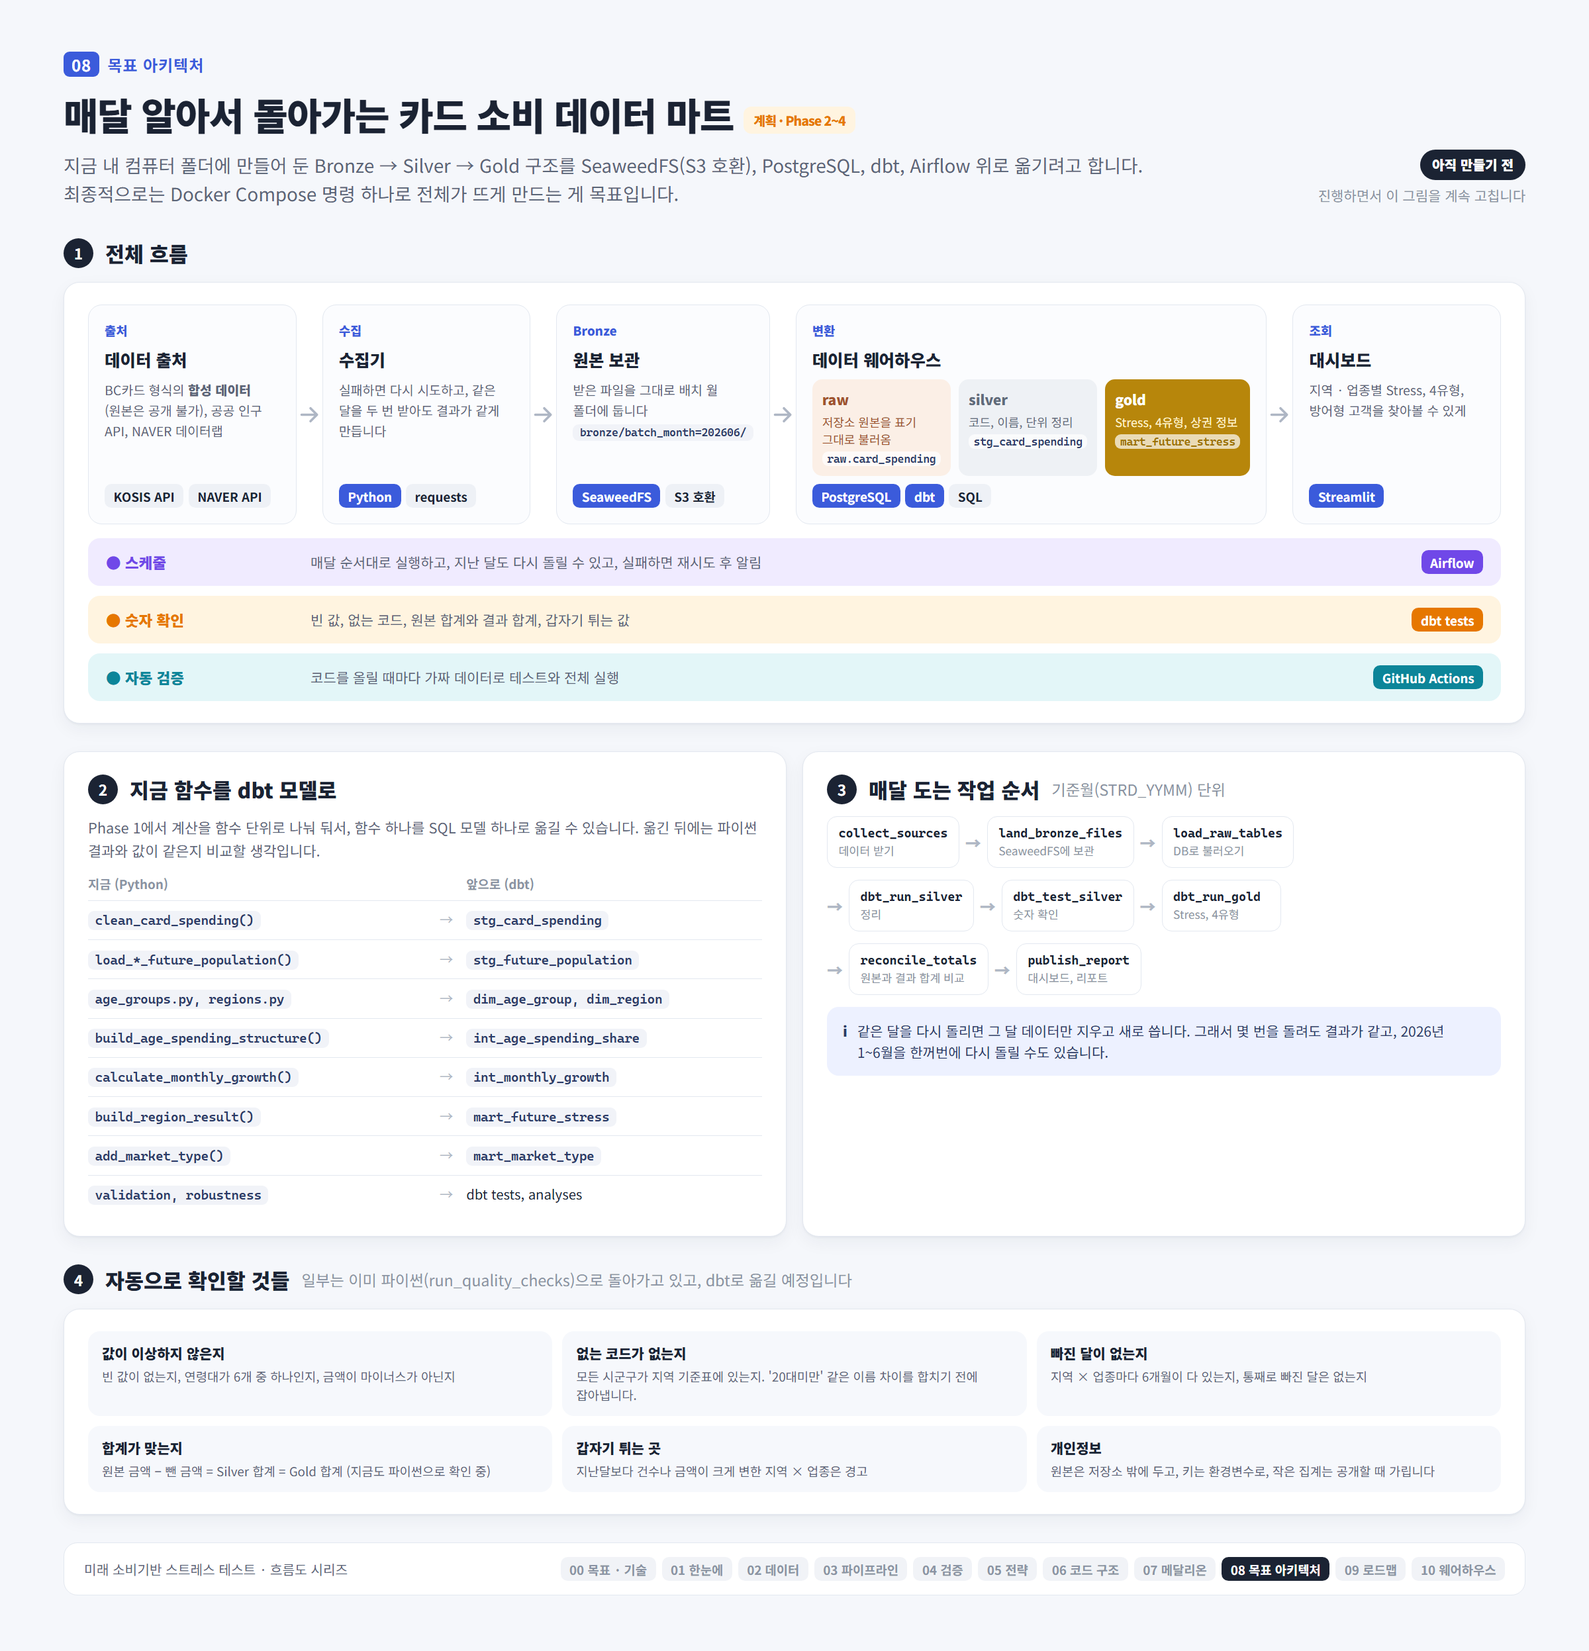
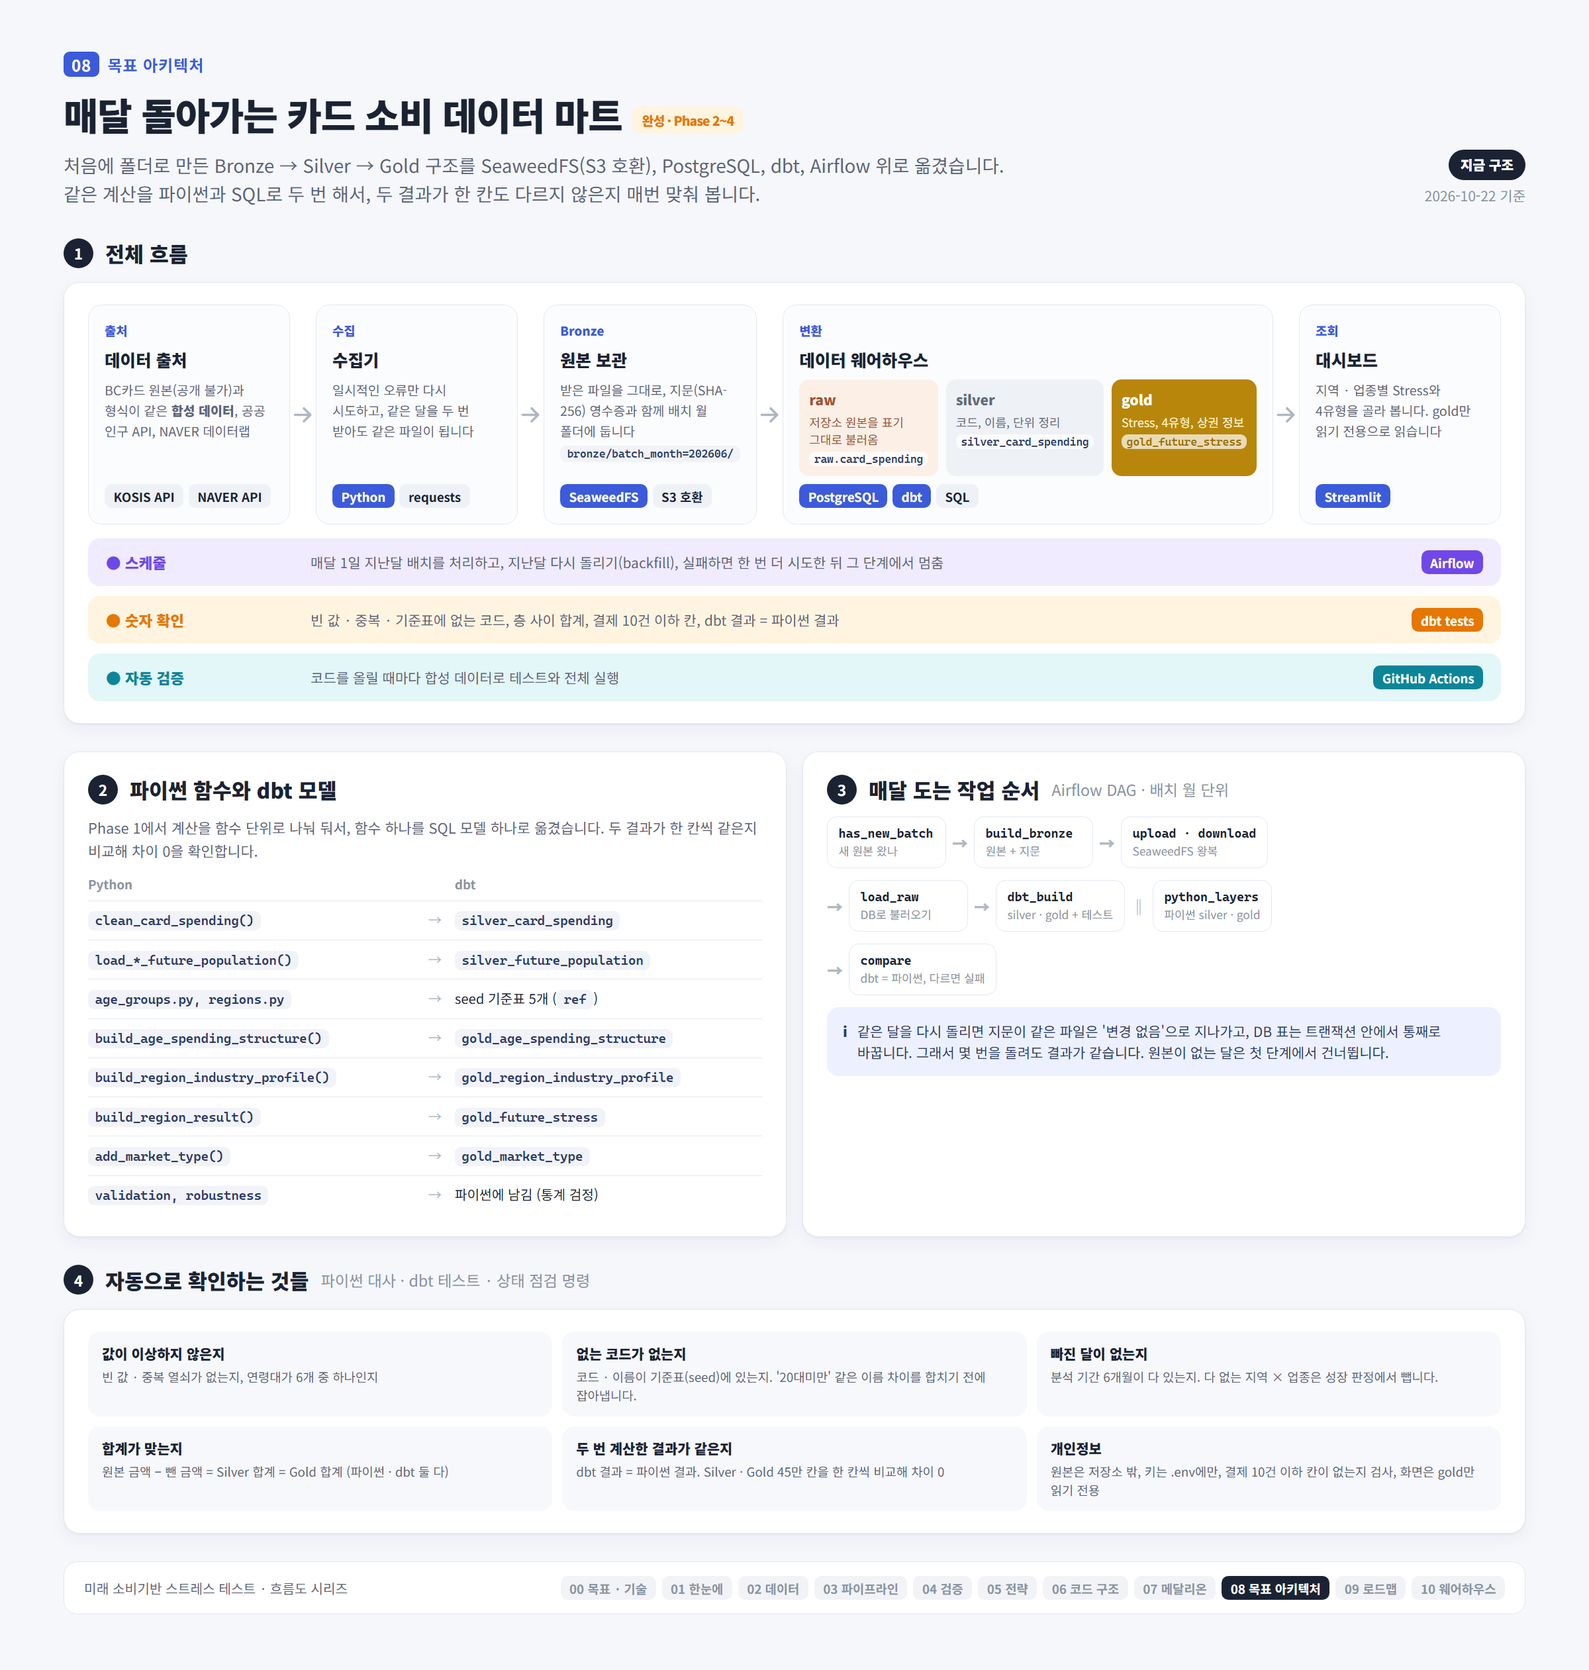
아키텍처 흐름도를 지금 구조로 고치고 README에 넣음

diff --git a/docs/diagrams/08_target_architecture.html b/docs/diagrams/08_target_architecture.html
@@ -43,10 +43,10 @@
 <div class="header">
   <div>
     <div class="eyebrow"><span class="no">08</span>목표 아키텍처</div>
-    <h1>매달 알아서 돌아가는 카드 소비 데이터 마트<span class="plan-badge">계획 · Phase 2~4</span></h1>
-    <p class="lede">지금 내 컴퓨터 폴더에 만들어 둔 Bronze → Silver → Gold 구조를 SeaweedFS(S3 호환), PostgreSQL, dbt, Airflow 위로 옮기려고 합니다.<br>최종적으로는 Docker Compose 명령 하나로 전체가 뜨게 만드는 게 목표입니다.</p>
+    <h1>매달 돌아가는 카드 소비 데이터 마트<span class="plan-badge">완성 · Phase 2~4</span></h1>
+    <p class="lede">처음에 폴더로 만든 Bronze → Silver → Gold 구조를 SeaweedFS(S3 호환), PostgreSQL, dbt, Airflow 위로 옮겼습니다.<br>같은 계산을 파이썬과 SQL로 두 번 해서, 두 결과가 한 칸도 다르지 않은지 매번 맞춰 봅니다.</p>
   </div>
-  <div class="version"><b>아직 만들기 전</b><br>진행하면서 이 그림을 계속 고칩니다</div>
+  <div class="version"><b>지금 구조</b><br>2026-10-22 기준</div>
 </div>
 
 <!-- 1 -->
@@ -55,33 +55,33 @@
   <div class="card pad">
     <div class="flow">
       <div class="node"><span class="n-step">출처</span><h4>데이터 출처</h4>
-        <p>BC카드 형식의 <b>합성 데이터</b>(원본은 공개 불가), 공공 인구 API, NAVER 데이터랩</p>
+        <p>BC카드 원본(공개 불가)과 형식이 같은 <b>합성 데이터</b>, 공공 인구 API, NAVER 데이터랩</p>
         <div class="techs"><span class="tech">KOSIS API</span><span class="tech">NAVER API</span></div></div>
       <div class="arrow-r"><svg viewBox="0 0 26 26"><path d="M5 13h15M14 6.5l6.5 6.5-6.5 6.5" fill="none" stroke="#AEB6C4" stroke-width="2.4" stroke-linecap="round" stroke-linejoin="round"/></svg></div>
       <div class="node"><span class="n-step">수집</span><h4>수집기</h4>
-        <p>실패하면 다시 시도하고, 같은 달을 두 번 받아도 결과가 같게 만듭니다</p>
+        <p>일시적인 오류만 다시 시도하고, 같은 달을 두 번 받아도 같은 파일이 됩니다</p>
         <div class="techs"><span class="tech main">Python</span><span class="tech">requests</span></div></div>
       <div class="arrow-r"><svg viewBox="0 0 26 26"><path d="M5 13h15M14 6.5l6.5 6.5-6.5 6.5" fill="none" stroke="#AEB6C4" stroke-width="2.4" stroke-linecap="round" stroke-linejoin="round"/></svg></div>
       <div class="node"><span class="n-step">Bronze</span><h4>원본 보관</h4>
-        <p>받은 파일을 그대로 배치 월 폴더에 둡니다<br><code style="font-size:11px">bronze/batch_month=202606/</code></p>
+        <p>받은 파일을 그대로, 지문(SHA-256) 영수증과 함께 배치 월 폴더에 둡니다<br><code style="font-size:11px">bronze/batch_month=202606/</code></p>
         <div class="techs"><span class="tech main">SeaweedFS</span><span class="tech">S3 호환</span></div></div>
       <div class="arrow-r"><svg viewBox="0 0 26 26"><path d="M5 13h15M14 6.5l6.5 6.5-6.5 6.5" fill="none" stroke="#AEB6C4" stroke-width="2.4" stroke-linecap="round" stroke-linejoin="round"/></svg></div>
       <div class="node"><span class="n-step">변환</span><h4>데이터 웨어하우스</h4>
         <div class="wh">
           <div style="background:#FBEFE6;color:#A0522D"><b>raw</b><span>저장소 원본을 표기 그대로 불러옴</span><code>raw.card_spending</code></div>
-          <div style="background:#EEF1F5;color:#5F6B7A"><b>silver</b><span>코드, 이름, 단위 정리</span><code>stg_card_spending</code></div>
-          <div style="background:#B7860B;color:#fff"><b>gold</b><span style="color:#FFF3CF">Stress, 4유형, 상권 정보</span><code style="color:#9A6F00">mart_future_stress</code></div>
+          <div style="background:#EEF1F5;color:#5F6B7A"><b>silver</b><span>코드, 이름, 단위 정리</span><code>silver_card_spending</code></div>
+          <div style="background:#B7860B;color:#fff"><b>gold</b><span style="color:#FFF3CF">Stress, 4유형, 상권 정보</span><code style="color:#9A6F00">gold_future_stress</code></div>
         </div>
         <div class="techs"><span class="tech main">PostgreSQL</span><span class="tech main">dbt</span><span class="tech">SQL</span></div></div>
       <div class="arrow-r"><svg viewBox="0 0 26 26"><path d="M5 13h15M14 6.5l6.5 6.5-6.5 6.5" fill="none" stroke="#AEB6C4" stroke-width="2.4" stroke-linecap="round" stroke-linejoin="round"/></svg></div>
       <div class="node"><span class="n-step">조회</span><h4>대시보드</h4>
-        <p>지역 · 업종별 Stress, 4유형, 방어형 고객을 찾아볼 수 있게</p>
+        <p>지역 · 업종별 Stress와 4유형을 골라 봅니다. gold만 읽기 전용으로 읽습니다</p>
         <div class="techs"><span class="tech main">Streamlit</span></div></div>
     </div>
     <div class="rails">
-      <div class="rail" style="background:var(--violet-soft)"><b style="color:var(--violet)">● 스케줄</b><span>매달 순서대로 실행하고, 지난 달도 다시 돌릴 수 있고, 실패하면 재시도 후 알림</span><span class="tech main" style="background:var(--violet)">Airflow</span></div>
-      <div class="rail" style="background:var(--amber-soft)"><b style="color:var(--amber)">● 숫자 확인</b><span>빈 값, 없는 코드, 원본 합계와 결과 합계, 갑자기 튀는 값</span><span class="tech main" style="background:var(--amber)">dbt tests</span></div>
-      <div class="rail" style="background:var(--teal-soft)"><b style="color:var(--teal)">● 자동 검증</b><span>코드를 올릴 때마다 가짜 데이터로 테스트와 전체 실행</span><span class="tech main" style="background:var(--teal)">GitHub Actions</span></div>
+      <div class="rail" style="background:var(--violet-soft)"><b style="color:var(--violet)">● 스케줄</b><span>매달 1일 지난달 배치를 처리하고, 지난달 다시 돌리기(backfill), 실패하면 한 번 더 시도한 뒤 그 단계에서 멈춤</span><span class="tech main" style="background:var(--violet)">Airflow</span></div>
+      <div class="rail" style="background:var(--amber-soft)"><b style="color:var(--amber)">● 숫자 확인</b><span>빈 값 · 중복 · 기준표에 없는 코드, 층 사이 합계, 결제 10건 이하 칸, dbt 결과 = 파이썬 결과</span><span class="tech main" style="background:var(--amber)">dbt tests</span></div>
+      <div class="rail" style="background:var(--teal-soft)"><b style="color:var(--teal)">● 자동 검증</b><span>코드를 올릴 때마다 합성 데이터로 테스트와 전체 실행</span><span class="tech main" style="background:var(--teal)">GitHub Actions</span></div>
     </div>
   </div>
 </div>
@@ -90,55 +90,54 @@
 <div data-part="2" class="section">
   <div class="grid" style="grid-template-columns: 1fr 1fr;">
     <div class="card pad stack" style="gap:12px">
-      <div class="section-label" style="margin-bottom:0"><span class="num">2</span><span class="title">지금 함수를 dbt 모델로</span></div>
-      <p>Phase 1에서 계산을 함수 단위로 나눠 둬서, 함수 하나를 SQL 모델 하나로 옮길 수 있습니다. 옮긴 뒤에는 파이썬 결과와 값이 같은지 비교할 생각입니다.</p>
+      <div class="section-label" style="margin-bottom:0"><span class="num">2</span><span class="title">파이썬 함수와 dbt 모델</span></div>
+      <p>Phase 1에서 계산을 함수 단위로 나눠 둬서, 함수 하나를 SQL 모델 하나로 옮겼습니다. 두 결과가 한 칸씩 같은지 비교해 차이 0을 확인합니다.</p>
       <table class="map">
-        <tr><th>지금 (Python)</th><th></th><th>앞으로 (dbt)</th></tr>
-        <tr><td><code>clean_card_spending()</code></td><td>→</td><td><code>stg_card_spending</code></td></tr>
-        <tr><td><code>load_*_future_population()</code></td><td>→</td><td><code>stg_future_population</code></td></tr>
-        <tr><td><code>age_groups.py, regions.py</code></td><td>→</td><td><code>dim_age_group, dim_region</code></td></tr>
-        <tr><td><code>build_age_spending_structure()</code></td><td>→</td><td><code>int_age_spending_share</code></td></tr>
-        <tr><td><code>calculate_monthly_growth()</code></td><td>→</td><td><code>int_monthly_growth</code></td></tr>
-        <tr><td><code>build_region_result()</code></td><td>→</td><td><code>mart_future_stress</code></td></tr>
-        <tr><td><code>add_market_type()</code></td><td>→</td><td><code>mart_market_type</code></td></tr>
-        <tr><td><code>validation, robustness</code></td><td>→</td><td>dbt tests, analyses</td></tr>
+        <tr><th>Python</th><th></th><th>dbt</th></tr>
+        <tr><td><code>clean_card_spending()</code></td><td>→</td><td><code>silver_card_spending</code></td></tr>
+        <tr><td><code>load_*_future_population()</code></td><td>→</td><td><code>silver_future_population</code></td></tr>
+        <tr><td><code>age_groups.py, regions.py</code></td><td>→</td><td>seed 기준표 5개 (<code>ref</code>)</td></tr>
+        <tr><td><code>build_age_spending_structure()</code></td><td>→</td><td><code>gold_age_spending_structure</code></td></tr>
+        <tr><td><code>build_region_industry_profile()</code></td><td>→</td><td><code>gold_region_industry_profile</code></td></tr>
+        <tr><td><code>build_region_result()</code></td><td>→</td><td><code>gold_future_stress</code></td></tr>
+        <tr><td><code>add_market_type()</code></td><td>→</td><td><code>gold_market_type</code></td></tr>
+        <tr><td><code>validation, robustness</code></td><td>→</td><td>파이썬에 남김 (통계 검정)</td></tr>
       </table>
     </div>
 
     <div class="card pad stack" style="gap:12px">
-      <div class="section-label" style="margin-bottom:0"><span class="num">3</span><span class="title">매달 도는 작업 순서</span><span class="desc">기준월(STRD_YYMM) 단위</span></div>
+      <div class="section-label" style="margin-bottom:0"><span class="num">3</span><span class="title">매달 도는 작업 순서</span><span class="desc">Airflow DAG · 배치 월 단위</span></div>
       <div class="dag">
-        <div class="task"><b>collect_sources</b><span>데이터 받기</span></div><span class="to">→</span>
-        <div class="task"><b>land_bronze_files</b><span>SeaweedFS에 보관</span></div><span class="to">→</span>
-        <div class="task"><b>load_raw_tables</b><span>DB로 불러오기</span></div>
+        <div class="task"><b>has_new_batch</b><span>새 원본 왔나</span></div><span class="to">→</span>
+        <div class="task"><b>build_bronze</b><span>원본 + 지문</span></div><span class="to">→</span>
+        <div class="task"><b>upload · download</b><span>SeaweedFS 왕복</span></div>
       </div>
       <div class="dag">
         <span class="to">→</span>
-        <div class="task"><b>dbt_run_silver</b><span>정리</span></div><span class="to">→</span>
-        <div class="task"><b>dbt_test_silver</b><span>숫자 확인</span></div><span class="to">→</span>
-        <div class="task"><b>dbt_run_gold</b><span>Stress, 4유형</span></div>
+        <div class="task"><b>load_raw</b><span>DB로 불러오기</span></div><span class="to">→</span>
+        <div class="task"><b>dbt_build</b><span>silver · gold + 테스트</span></div><span class="to">‖</span>
+        <div class="task"><b>python_layers</b><span>파이썬 silver · gold</span></div>
       </div>
       <div class="dag">
         <span class="to">→</span>
-        <div class="task"><b>reconcile_totals</b><span>원본과 결과 합계 비교</span></div><span class="to">→</span>
-        <div class="task"><b>publish_report</b><span>대시보드, 리포트</span></div>
+        <div class="task"><b>compare</b><span>dbt = 파이썬, 다르면 실패</span></div>
       </div>
-      <div class="callout info"><span class="ico">i</span><span>같은 달을 다시 돌리면 그 달 데이터만 지우고 새로 씁니다. 그래서 몇 번을 돌려도 결과가 같고, 2026년 1~6월을 한꺼번에 다시 돌릴 수도 있습니다.</span></div>
+      <div class="callout info"><span class="ico">i</span><span>같은 달을 다시 돌리면 지문이 같은 파일은 '변경 없음'으로 지나가고, DB 표는 트랜잭션 안에서 통째로 바꿉니다. 그래서 몇 번을 돌려도 결과가 같습니다. 원본이 없는 달은 첫 단계에서 건너뜁니다.</span></div>
     </div>
   </div>
 </div>
 
 <!-- 4 -->
 <div data-part="3" class="section">
-  <div class="section-label"><span class="num">4</span><span class="title">자동으로 확인할 것들</span><span class="desc">일부는 이미 파이썬(run_quality_checks)으로 돌아가고 있고, dbt로 옮길 예정입니다</span></div>
+  <div class="section-label"><span class="num">4</span><span class="title">자동으로 확인하는 것들</span><span class="desc">파이썬 대사 · dbt 테스트 · 상태 점검 명령</span></div>
   <div class="card pad">
     <div class="qc">
-      <div><b>값이 이상하지 않은지</b><span>빈 값이 없는지, 연령대가 6개 중 하나인지, 금액이 마이너스가 아닌지</span></div>
-      <div><b>없는 코드가 없는지</b><span>모든 시군구가 지역 기준표에 있는지. '20대미만' 같은 이름 차이를 합치기 전에 잡아냅니다.</span></div>
-      <div><b>빠진 달이 없는지</b><span>지역 × 업종마다 6개월이 다 있는지, 통째로 빠진 달은 없는지</span></div>
-      <div><b>합계가 맞는지</b><span>원본 금액 − 뺀 금액 = Silver 합계 = Gold 합계 (지금도 파이썬으로 확인 중)</span></div>
-      <div><b>갑자기 튀는 곳</b><span>지난달보다 건수나 금액이 크게 변한 지역 × 업종은 경고</span></div>
-      <div><b>개인정보</b><span>원본은 저장소 밖에 두고, 키는 환경변수로, 작은 집계는 공개할 때 가립니다</span></div>
+      <div><b>값이 이상하지 않은지</b><span>빈 값 · 중복 열쇠가 없는지, 연령대가 6개 중 하나인지</span></div>
+      <div><b>없는 코드가 없는지</b><span>코드 · 이름이 기준표(seed)에 있는지. '20대미만' 같은 이름 차이를 합치기 전에 잡아냅니다.</span></div>
+      <div><b>빠진 달이 없는지</b><span>분석 기간 6개월이 다 있는지. 다 없는 지역 × 업종은 성장 판정에서 뺍니다.</span></div>
+      <div><b>합계가 맞는지</b><span>원본 금액 − 뺀 금액 = Silver 합계 = Gold 합계 (파이썬 · dbt 둘 다)</span></div>
+      <div><b>두 번 계산한 결과가 같은지</b><span>dbt 결과 = 파이썬 결과. Silver · Gold 45만 칸을 한 칸씩 비교해 차이 0</span></div>
+      <div><b>개인정보</b><span>원본은 저장소 밖, 키는 .env에만, 결제 10건 이하 칸이 없는지 검사, 화면은 gold만 읽기 전용</span></div>
     </div>
   </div>
 </div>

diff --git a/docs/diagrams/README.md b/docs/diagrams/README.md
@@ -13,7 +13,7 @@
 | 05 | [전략](05_strategy.png) | [1](parts/05_strategy_1.png) · [2](parts/05_strategy_2.png) · [3](parts/05_strategy_3.png) | 방어형 고객, 고객 구성 최적화, 메뉴 · 상품 전략 |
 | 06 | [코드 구조](06_code_structure.png) | [1](parts/06_code_structure_1.png) · [2](parts/06_code_structure_2.png) · [3](parts/06_code_structure_3.png) | 리팩토링 결과, 모듈 지도, 테스트 |
 | 07 | [메달리온 아키텍처](07_medallion.png) | [1](parts/07_medallion_1.png) · [2](parts/07_medallion_2.png) · [3](parts/07_medallion_3.png) | Bronze → Silver → Gold 계층, 계층 사이 대사 |
-| 08 | [목표 아키텍처](08_target_architecture.png) | [1](parts/08_target_architecture_1.png) · [2](parts/08_target_architecture_2.png) · [3](parts/08_target_architecture_3.png) | 데이터 마트 구조 (Phase 2 시작 때 그린 계획) |
+| 08 | [목표 아키텍처](08_target_architecture.png) | [1](parts/08_target_architecture_1.png) · [2](parts/08_target_architecture_2.png) · [3](parts/08_target_architecture_3.png) | 지금 구조: 전체 흐름, 파이썬 함수 ↔ dbt 모델, Airflow 단계, 자동으로 확인하는 것 |
 | 09 | [로드맵](09_roadmap.png) | [1](parts/09_roadmap_1.png) · [2](parts/09_roadmap_2.png) | 단계별 할 일과 완료 기준, 진행 기록 |
 | 10 | [데이터 웨어하우스](10_warehouse.png) | [1](parts/10_warehouse_1.png) · [2](parts/10_warehouse_2.png) | raw · ref · silver · gold 스키마, 파이썬 결과와 비교 |
 

diff --git a/README.md b/README.md
@@ -12,19 +12,9 @@
 
 ## 구조
 
-```mermaid
-flowchart LR
-    src["원본 8종<br/>BC카드 · 장래인구 · 생활/유동인구"] --> bronze["Bronze<br/>SeaweedFS (S3)<br/>지문 영수증"]
-    kosis["KOSIS API"] --> src
-    bronze --> raw[("PostgreSQL<br/>raw")]
-    raw --> dbt["dbt<br/>silver · gold<br/>+ 테스트"]
-    bronze --> py["파이썬<br/>silver · gold<br/>+ 층 사이 대사"]
-    dbt --> cmp{"한 칸씩 비교<br/>차이 0"}
-    py --> cmp
-    dbt --> dash["Streamlit<br/>gold 읽기 전용"]
-    airflow["Airflow 월 배치"] -.-> bronze
-    ci["GitHub Actions<br/>합성 데이터로 전체 실행"] -.-> cmp
-```
+![전체 흐름](docs/diagrams/parts/08_target_architecture_1.png)
+
+매달 도는 단계와 파이썬 함수 ↔ dbt 모델 대응은 [아키텍처 흐름도](docs/diagrams/08_target_architecture.png)에 있습니다.
 
 ## 핵심 설계
 
